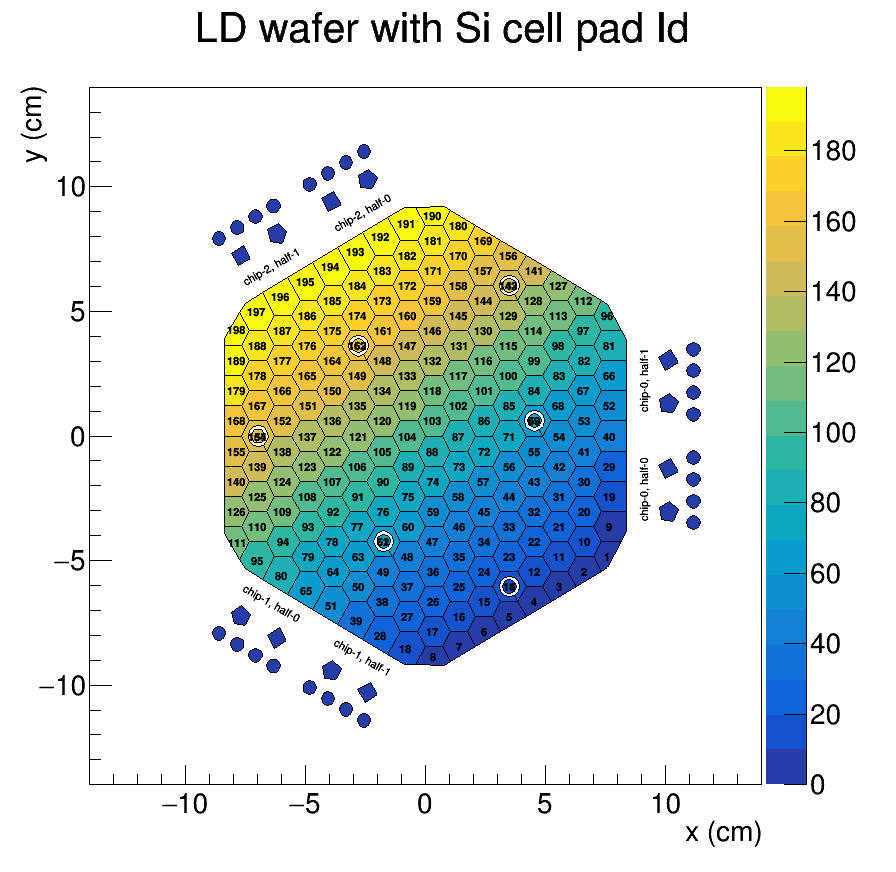
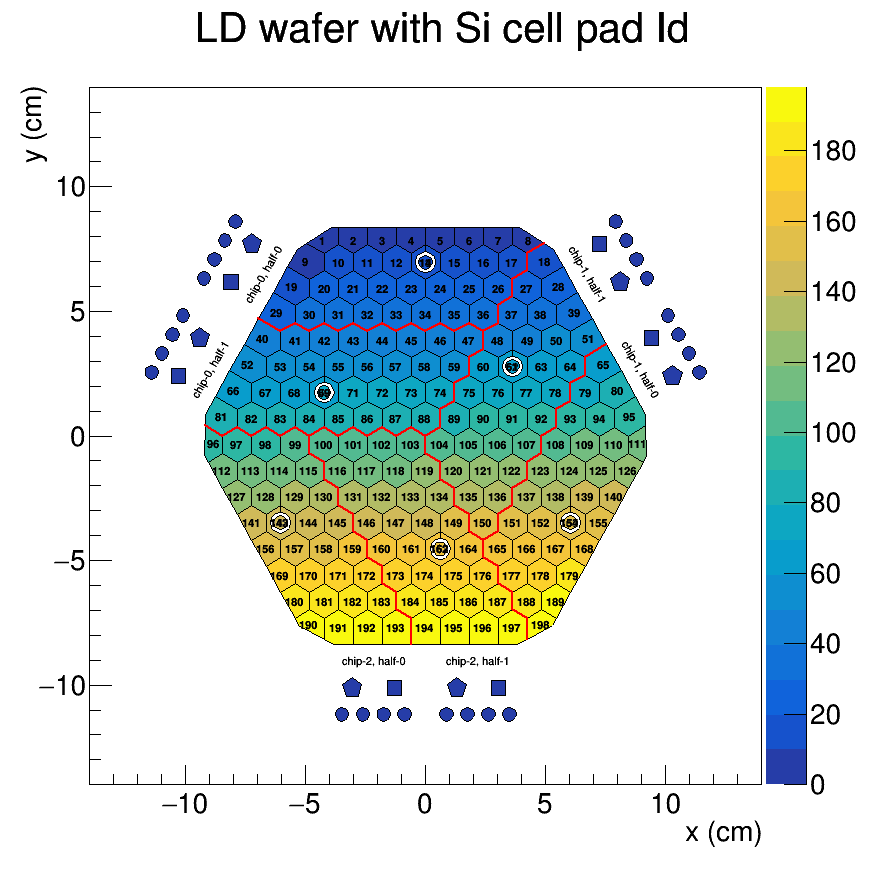
reset extra angle to 0

Changed region(s): [[0.1562, 0.1548, 0.7812, 0.836]]

diff --git a/include/auxiliary_boundary_lines.h b/include/auxiliary_boundary_lines.h
@@ -4,18 +4,18 @@
 namespace aux {
 const int N_boundary_points = 16;
 
-double x1[N_boundary_points] = {6.947122, 6.117135, 5.768300, 5.070630, 4.721795, 4.024125, 3.675290, 2.977620, 2.628785, 1.931115, 1.582280, 0.884610, 0.535775, -0.161895, -0.510730, -1.208400};
-double y1[N_boundary_points] = {4.553189, 4.553189, 3.948989, 3.948989, 3.344789, 3.344789, 2.740589, 2.740589, 2.136389, 2.136389, 1.532189, 1.532189, 0.927990, 0.927990, 0.323790, 0.323790};
-double x2[N_boundary_points] = {-8.948928, -8.533935, -7.836265, -7.487430, -6.789760, -6.440925, -5.743255, -5.394420, -4.696750, -4.347915, -3.650245, -3.301410, -2.603740, -2.254905, -1.557235, -1.208400};
-double y2[N_boundary_points] = {5.271979, 4.553189, 4.553189, 3.948989, 3.948989, 3.344789, 3.344789, 2.740589, 2.740589, 2.136389, 2.136389, 1.532189, 1.532189, 0.927990, 0.927990, 0.323790};
-double x3[N_boundary_points] = {-1.208400, -1.557235, -1.208400, -1.557235, -1.208400, -1.557235, -1.208400, -1.557235, -1.208400, -1.557235, -1.208400, -1.557235, -1.208400, -1.557235, -1.208400, -1.623393};
-double y3[N_boundary_points] = {0.323790, -0.280410, -0.884610, -1.488810, -2.093010, -2.697210, -3.301410, -3.905610, -4.509810, -5.114010, -5.718210, -6.322410, -6.926610, -7.530810, -8.135010, -8.853799};
-double x4[N_boundary_points] = {-4.871167, -4.347915, -3.650245, -3.301410, -2.603740, -2.254905, -1.557235, -1.208400, -0.510730, -0.161895, 0.535775, 0.884610, 1.582280, 1.931115, 2.628785, 2.977620};
-double y4[N_boundary_points] = {7.876289, 6.969989, 6.969989, 6.365789, 6.365789, 5.761589, 5.761589, 5.157389, 5.157389, 4.553189, 4.553189, 3.948989, 3.948989, 3.344789, 3.344789, 2.740589};
-double x5[N_boundary_points] = {7.163640, 6.117135, 5.768300, 5.070630, 4.721795, 4.024125, 3.675290, 2.977620, 2.628785, 1.931115, 1.582280, 0.884610, 0.535775, -0.161895, -0.510730, -1.208400};
-double y5[N_boundary_points] = {-0.280410, -0.280410, -0.884610, -0.884610, -1.488810, -1.488810, -2.093010, -2.093010, -2.697210, -2.697210, -3.301410, -3.301410, -3.905610, -3.905610, -4.509810, -4.509810};
-double x6[N_boundary_points] = {-5.394420, -5.743255, -5.394420, -5.743255, -5.394420, -5.743255, -5.394420, -5.743255, -5.394420, -5.743255, -5.394420, -5.743255, -5.394420, -5.743255, -5.394420, -5.917673};
-double y6[N_boundary_points] = {2.740589, 2.136389, 1.532189, 0.927990, 0.323790, -0.280410, -0.884610, -1.488810, -2.093010, -2.697210, -3.301410, -3.905610, -4.509810, -5.114010, -5.718210, -6.624510};
+double x1[N_boundary_points] = {4.948189, 4.229400, 4.229400, 3.625200, 3.625200, 3.021000, 3.021000, 2.416800, 2.416800, 1.812600, 1.812600, 1.208400, 1.208400, 0.604200, 0.604200, 0.000000};
+double y1[N_boundary_points] = {7.740528, 7.325535, 6.627865, 6.279030, 5.581360, 5.232525, 4.534855, 4.186020, 3.488350, 3.139515, 2.441845, 2.093010, 1.395340, 1.046505, 0.348835, 0.000000};
+double x2[N_boundary_points] = {-9.177589, -8.458799, -7.854599, -7.250399, -6.646199, -6.041999, -5.437799, -4.833599, -4.229399, -3.625200, -3.021000, -2.416800, -1.812600, -1.208400, -0.604200, 0.000000};
+double y2[N_boundary_points] = {0.414993, 0.000000, 0.348835, 0.000000, 0.348835, 0.000000, 0.348835, 0.000000, 0.348835, 0.000000, 0.348835, 0.000000, 0.348835, 0.000000, 0.348835, 0.000000};
+double x3[N_boundary_points] = {0.000000, 0.000000, 0.604200, 0.604200, 1.208400, 1.208400, 1.812600, 1.812600, 2.416800, 2.416800, 3.021000, 3.021000, 3.625200, 3.625200, 4.229400, 4.229400};
+double y3[N_boundary_points] = {0.000000, -0.697670, -1.046505, -1.744175, -2.093010, -2.790680, -3.139515, -3.837185, -4.186020, -4.883690, -5.232525, -5.930195, -6.279030, -6.976700, -7.325535, -8.155522};
+double x4[N_boundary_points] = {-6.948299, -6.041999, -5.437799, -4.833599, -4.229399, -3.625200, -3.021000, -2.416800, -1.812600, -1.208400, -0.604200, 0.000000, 0.604200, 1.208400, 1.812600, 2.416800};
+double y4[N_boundary_points] = {4.709273, 4.186020, 4.534855, 4.186020, 4.534855, 4.186020, 4.534855, 4.186020, 4.534855, 4.186020, 4.534855, 4.186020, 4.534855, 4.186020, 4.534855, 4.186020};
+double x5[N_boundary_points] = {7.552499, 6.646199, 6.646199, 6.042000, 6.042000, 5.437800, 5.437800, 4.833600, 4.833600, 4.229400, 4.229400, 3.625200, 3.625200, 3.021000, 3.021000, 2.416800};
+double y5[N_boundary_points] = {3.662767, 3.139515, 2.441845, 2.093010, 1.395340, 1.046505, 0.348835, -0.000000, -0.697670, -1.046505, -1.744175, -2.093010, -2.790680, -3.139515, -3.837185, -4.186020};
+double x6[N_boundary_points] = {-4.833599, -4.833599, -4.229399, -4.229399, -3.625200, -3.625200, -3.021000, -3.021000, -2.416800, -2.416800, -1.812600, -1.812600, -1.208400, -1.208400, -0.604200, -0.604200};
+double y6[N_boundary_points] = {0.000000, -0.697670, -1.046505, -1.744175, -2.093010, -2.790680, -3.139515, -3.837185, -4.186020, -4.883690, -5.232525, -5.930195, -6.279030, -6.976700, -7.325535, -8.372040};
 }; // end of aux
 
 #endif // __auxiliary_boundary_lines__

diff --git a/exe.py b/exe.py
@@ -100,9 +100,10 @@ def get_registered_polygon_manager(extra_angle, offset_x, offset_y):
     return polygon_manager
 
 def main():
-    # pm = get_registered_polygon_manager(0., -1.20840 , 2.09301) # default
+    pm = get_registered_polygon_manager(0., -1.20840 , 2.09301) # default
+    # pm = get_registered_polygon_manager(5*math.pi/6., -1.20840 , 2.09301) # default
     # pm = get_registered_polygon_manager(5*math.pi/6. ,  2.09301 , -1.20840) # 150 degree
-    pm = get_registered_polygon_manager(math.pi/6.   ,  0.0     ,  2.41680) # 30 degree
+    # pm = get_registered_polygon_manager(math.pi/6.   ,  0.0     ,  2.41680) # 30 degree
     return pm.output_geometry_root_file, pm.extra_rotation_tb2024
 
 if __name__ == "__main__":
